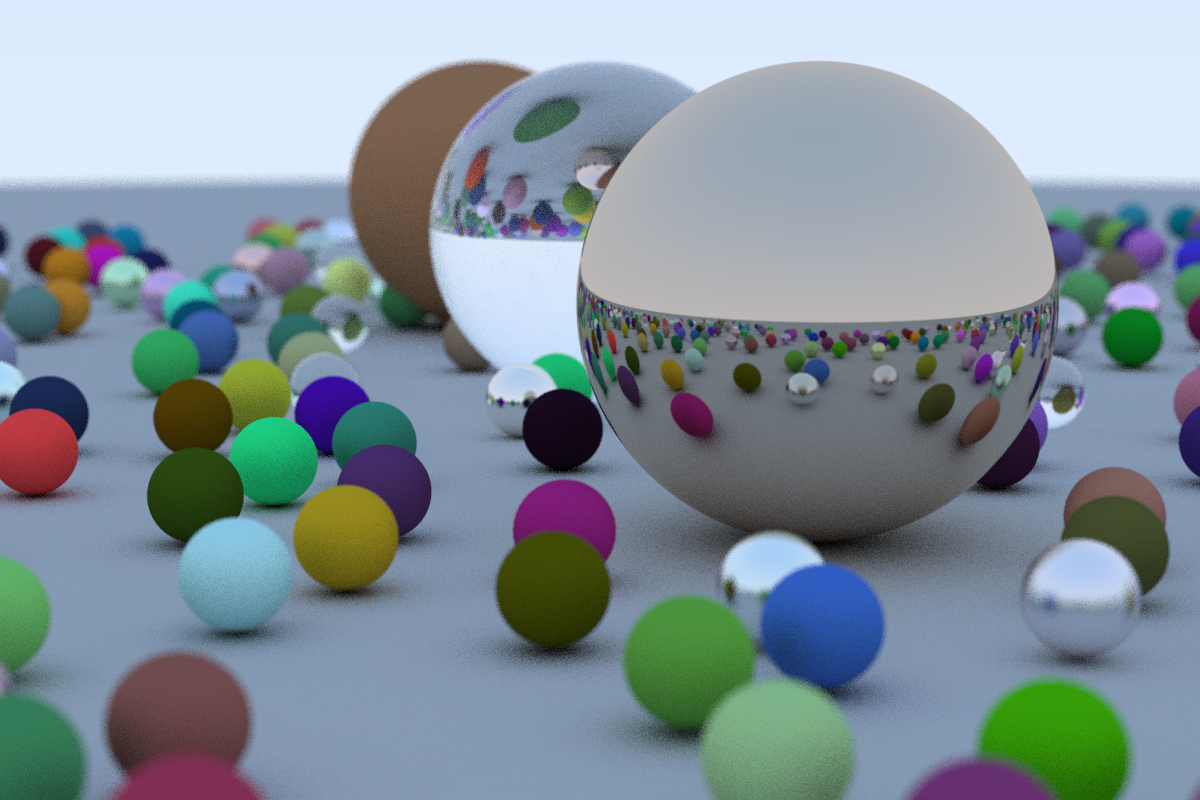
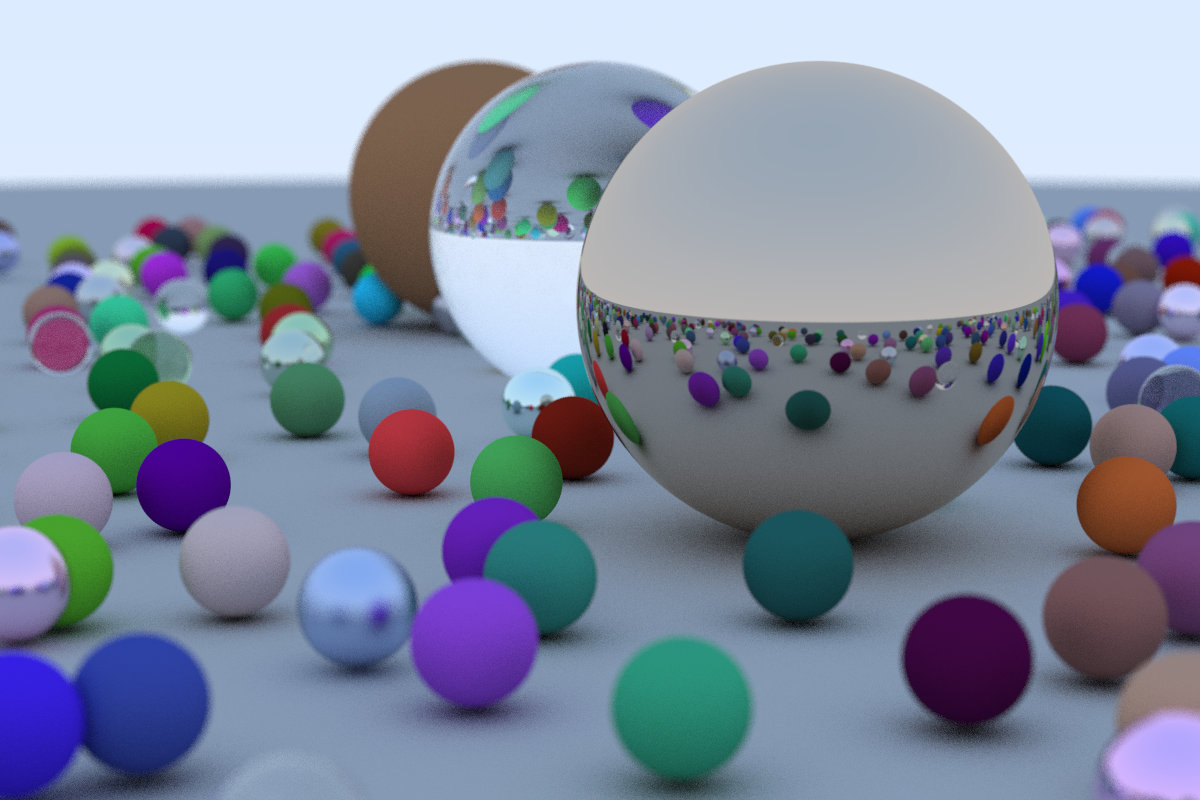
Make code concurrent

diff --git a/rendim/render.go b/rendim/render.go
@@ -8,64 +8,113 @@ import (
 	"math"
 	"math/rand"
 	"strings"
+	"sync"
+	"sync/atomic"
 	"time"
 )
 
 const (
-	width   = 1200
-	height  = 800
-	samples = 50
+	samples      = 100
+	bucketSize   = 32
+	workersCount = 4
 )
 
-var rnd = rand.New(rand.NewSource(time.Now().UTC().UnixNano()))
+var ops uint64
 
 func Render() image.Image {
-	//scene setup
-	world := randomScene()
+	width := 1200
+	height := 800
 
-	//camera setup
-	lookFrom := NewVec3d(13.0, 2.0, 3.0)
-	lookAt := NewVec3d(0.0, 0.0, 0.0)
-	vUp := NewVec3d(0.0, 1.0, 0.0)
-	vFov := 20.0 //vertical field of view in degrees
-	aspectRatio := float64(width) / float64(height)
-	distToFocus := 10.0
-	aperture := 0.1
-	cam := NewCamera(lookFrom, lookAt, vUp, vFov, aspectRatio, aperture, distToFocus)
+	scene := randomScene(width, height)
 
-	var (
-		py, px, s int
-	)
+	return renderBuckets(width, height, scene)
+}
+
+func renderBuckets(width, height int, scene Scene) image.Image {
+	img := image.NewRGBA(image.Rect(0, 0, width, height))
+
+	buckets := getBuckets(img.Bounds())
+	bucketChan := make(chan image.Rectangle, len(buckets))
 
 	done := make(chan bool)
-	go showProgress(&py, &px, &s, done)
+	go showProgress(width*height, done)
 
-	img := image.NewRGBA(image.Rect(0, 0, width, height))
-	for py = 0; py < height; py++ {
-		for px = 0; px < width; px++ {
-			var rayClr Color
-			for s = 0; s < samples; s++ {
-				u := (float64(px) + rnd.Float64()) / float64(width)
-				v := (float64(height-py) + rnd.Float64()) / float64(height)
-				r := cam.GetRay(u, v)
-				rayClr = rayClr.Add(rayColor(r, &world, 0))
-			}
-			rayClr = rayClr.DivideScalar(samples)
-			rayClrGamma := Color{
-				R: math.Sqrt(rayClr.R),
-				G: math.Sqrt(rayClr.G),
-				B: math.Sqrt(rayClr.B)}
+	var wg sync.WaitGroup
+	wg.Add(workersCount)
 
-			clr := rayClrGamma.ToRGBA()
-
-			img.Set(px, py, clr)
-		}
+	for w := 0; w < workersCount; w++ {
+		go renderBucket(bucketChan, &scene, img, &wg)
 	}
+
+	for _, b := range buckets {
+		bucketChan <- b
+	}
+
+	close(bucketChan)
+	wg.Wait()
 
 	done <- true
 	<-done
 
 	return img
+}
+
+func getBuckets(r image.Rectangle) []image.Rectangle {
+	w := r.Bounds().Dx()
+	h := r.Bounds().Dy()
+
+	bw := w/bucketSize + 1
+	bh := h/bucketSize + 1
+
+	buckets := make([]image.Rectangle, 0)
+
+	for y := 0; y < bh; y++ {
+		if y%2 == 0 {
+			for x := 0; x < bw; x++ {
+				b := image.Rectangle{
+					Min: image.Point{X: x * bucketSize, Y: y * bucketSize},
+					Max: image.Point{X: (x+1)*bucketSize - 1, Y: (y+1)*bucketSize - 1},
+				}
+
+				buckets = append(buckets, b)
+			}
+		} else {
+			for x := bw - 1; x >= 0; x-- {
+				b := image.Rectangle{
+					Min: image.Point{X: x * bucketSize, Y: y * bucketSize},
+					Max: image.Point{X: (x+1)*bucketSize - 1, Y: (y+1)*bucketSize - 1},
+				}
+
+				buckets = append(buckets, b)
+			}
+		}
+	}
+
+	for i := range buckets {
+		clip(&buckets[i], w-1, h-1)
+	}
+
+	return buckets
+}
+
+func clip(r *image.Rectangle, maxX, maxY int) {
+	r.Max.X = int(math.Min(float64(r.Max.X), float64(maxX)))
+	r.Max.Y = int(math.Min(float64(r.Max.Y), float64(maxY)))
+}
+
+func renderBucket(buckets <-chan image.Rectangle, scene *Scene, img *image.RGBA, wg *sync.WaitGroup) {
+	defer wg.Done()
+
+	width := img.Bounds().Max.X
+	height := img.Bounds().Max.Y
+
+	for b := range buckets {
+		for py := b.Min.Y; py <= b.Max.Y; py++ {
+			for px := b.Min.X; px <= b.Max.X; px++ {
+				img.Set(px, py, pixelColor(px, py, width, height, scene))
+			}
+		}
+	}
 }
 
 func rayColor(r Ray, world *HitableList, depth int) Color {
@@ -91,44 +140,33 @@ func rayColor(r Ray, world *HitableList, depth int) Color {
 	return clr
 }
 
-func randomScene() HitableList {
-	list := HitableList{}
-	list = append(list, NewSphere(NewVec3d(0.0, -1000.0, 0), 1000, Lambertian{albedo: Color{R: 0.5, G: 0.5, B: 0.5}}))
-	for a := -11; a < 11; a++ {
-		for b := -11; b < 11; b++ {
-			chooseMaterial := rnd.Float64()
-			center := NewVec3d(float64(a)+0.9*rnd.Float64(), 0.2, float64(b)+0.9*rnd.Float64())
-			if center.Subtract(NewVec3d(4.0, 0.2, 0.0)).Length() > 0.9 {
-				if chooseMaterial < 0.8 { //diffuse
-					list = append(list, NewSphere(center, 0.2,
-						Lambertian{albedo: Color{R: rnd.Float64() * rnd.Float64(), G: rnd.Float64() * rnd.Float64(), B: rnd.Float64() * rnd.Float64()}}))
-				} else if chooseMaterial < 0.95 { //metal
-					list = append(list, NewSphere(center, 0.2,
-						Metal{albedo: Color{R: 0.5 * (1.0 + rnd.Float64()), G: 0.5 * (1.0 + rnd.Float64()), B: 0.5 * (1.0 + rnd.Float64())}, fuzz: 0.5 * rnd.Float64()}))
-				} else { //glass
-					list = append(list, NewSphere(center, 0.2, Dielectric{refIdx: 1.5}))
-				}
-			}
-		}
+func pixelColor(px, py, width, height int, scene *Scene) color.RGBA {
+	var rayClr Color
+	for s := 0; s < samples; s++ {
+		u := (float64(px) + rand.Float64()) / float64(width)
+		v := (float64(height-py) + rand.Float64()) / float64(height)
+		r := scene.camera.GetRay(u, v)
+		rayClr = rayClr.Add(rayColor(r, &scene.world, 0))
 	}
+	rayClr = rayClr.DivideScalar(samples)
+	rayClrGamma := Color{
+		R: math.Sqrt(rayClr.R),
+		G: math.Sqrt(rayClr.G),
+		B: math.Sqrt(rayClr.B)}
 
-	list = append(list, NewSphere(NewVec3d(0.0, 1.0, 0.0), 1.0, Dielectric{refIdx: 1.5}))
-	list = append(list, NewSphere(NewVec3d(-4.0, 1.0, 0.0), 1.0, Lambertian{albedo: Color{R: 0.4, G: 0.2, B: 0.1}}))
-	list = append(list, NewSphere(NewVec3d(4.0, 1.0, 0.0), 1.0, Metal{albedo: Color{R: 0.7, G: 0.6, B: 0.5}, fuzz: 0.0}))
+	atomic.AddUint64(&ops, samples)
 
-	return list
+	return rayClrGamma.ToRGBA()
 }
 
-func showProgress(py, px, s *int, done chan bool) {
-	const tickIntervalMs = 200
+func showProgress(pixCount int, done chan bool) {
+	const tickIntervalMs = 1000
 	ticker := time.NewTicker(time.Millisecond * tickIntervalMs)
 	elapsed := 0
 	for {
 		select {
 		case <-ticker.C:
-			cy, cx, cs := (*py), (*px), (*s)
-			opNum := (cy * width * samples) + (cx * samples) + cs
-			progress := float64(opNum) / float64(width*height*samples)
+			progress := float64(atomic.LoadUint64(&ops)) / float64(pixCount*samples)
 			progressPercent := int(100.0 * progress)
 
 			var progressBar bytes.Buffer
@@ -146,4 +184,67 @@ func showProgress(py, px, s *int, done chan bool) {
 			return
 		}
 	}
+}
+
+func randomScene(width, height int) Scene {
+	rnd := rand.New(rand.NewSource(42))
+
+	world := HitableList{}
+	world = append(world, NewSphere(NewVec3d(0.0, -1000.0, 0), 1000, Lambertian{albedo: Color{R: 0.5, G: 0.5, B: 0.5}}))
+	for a := -11; a < 11; a++ {
+		for b := -11; b < 11; b++ {
+			chooseMaterial := rnd.Float64()
+			center := NewVec3d(float64(a)+0.9*rnd.Float64(), 0.2, float64(b)+0.9*rnd.Float64())
+			if center.Subtract(NewVec3d(4.0, 0.2, 0.0)).Length() > 0.9 {
+				if chooseMaterial < 0.8 { //diffuse
+					world = append(world, NewSphere(center, 0.2,
+						Lambertian{albedo: Color{R: rnd.Float64() * rnd.Float64(), G: rnd.Float64() * rnd.Float64(), B: rnd.Float64() * rnd.Float64()}}))
+				} else if chooseMaterial < 0.95 { //metal
+					world = append(world, NewSphere(center, 0.2,
+						Metal{albedo: Color{R: 0.5 * (1.0 + rnd.Float64()), G: 0.5 * (1.0 + rnd.Float64()), B: 0.5 * (1.0 + rnd.Float64())}, fuzz: 0.5 * rnd.Float64()}))
+				} else { //glass
+					world = append(world, NewSphere(center, 0.2, Dielectric{refIdx: 1.5}))
+				}
+			}
+		}
+	}
+
+	world = append(world, NewSphere(NewVec3d(0.0, 1.0, 0.0), 1.0, Dielectric{refIdx: 1.5}))
+	world = append(world, NewSphere(NewVec3d(-4.0, 1.0, 0.0), 1.0, Lambertian{albedo: Color{R: 0.4, G: 0.2, B: 0.1}}))
+	world = append(world, NewSphere(NewVec3d(4.0, 1.0, 0.0), 1.0, Metal{albedo: Color{R: 0.7, G: 0.6, B: 0.5}, fuzz: 0.0}))
+
+	lookFrom := NewVec3d(13.0, 2.0, 3.0)
+	lookAt := NewVec3d(0.0, 0.0, 0.0)
+
+	vUp := NewVec3d(0.0, 1.0, 0.0)
+	vFov := 20.0 //vertical field of view in degrees
+	aspectRatio := float64(width) / float64(height)
+
+	distToFocus := 10.0
+	aperture := 0.1
+	cam := NewCamera(lookFrom, lookAt, vUp, vFov, aspectRatio, aperture, distToFocus)
+
+	return Scene{camera: cam, world: world}
+}
+
+func testScene(width, height int) Scene {
+	world := HitableList{}
+	world = append(world, NewSphere(NewVec3d(0.0, 0.0, -1.0), 0.5, Lambertian{albedo: Color{R: 0.1, G: 0.2, B: 0.5}}))
+	world = append(world, NewSphere(NewVec3d(0.0, -100.5, -1.0), 100.0, Lambertian{albedo: Color{R: 0.8, G: 0.8, B: 0.0}}))
+	world = append(world, NewSphere(NewVec3d(1.0, 0.0, -1.0), 0.5, Metal{albedo: Color{R: 0.8, G: 0.6, B: 0.2}, fuzz: 0.0}))
+	world = append(world, NewSphere(NewVec3d(-1.0, 0.0, -1.0), 0.5, Dielectric{refIdx: 1.5}))
+	world = append(world, NewSphere(NewVec3d(-1.0, 0.0, -1.0), -0.45, Dielectric{refIdx: 1.5}))
+
+	lookFrom := NewVec3d(3.0, 3.0, 2.0)
+	lookAt := NewVec3d(0.0, 0.0, -1.0)
+
+	vUp := NewVec3d(0.0, 1.0, 0.0)
+	vFov := 20.0 //vertical field of view in degrees
+	aspectRatio := float64(width) / float64(height)
+
+	distToFocus := lookFrom.Subtract(lookAt).Length()
+	aperture := 0.5
+	cam := NewCamera(lookFrom, lookAt, vUp, vFov, aspectRatio, aperture, distToFocus)
+
+	return Scene{camera: cam, world: world}
 }

diff --git a/rendim/material.go b/rendim/material.go
@@ -1,6 +1,9 @@
 package rendim
 
-import "math"
+import (
+	"math"
+	"math/rand"
+)
 
 type Material interface {
 	Scatter(rayIn Ray, rec HitRecord, attenuation *Color) (bool, Ray)
@@ -66,7 +69,7 @@ func (d Dielectric) Scatter(rayIn Ray, rec HitRecord, attenuation *Color) (isSca
 		reflectProb = 1.0
 	}
 
-	if rnd.Float64() < reflectProb {
+	if rand.Float64() < reflectProb {
 		reflected := reflect(rayIn.Direction(), rec.Normal)
 		scattered = NewRay(rec.P, reflected)
 	} else {
@@ -77,9 +80,9 @@ func (d Dielectric) Scatter(rayIn Ray, rec HitRecord, attenuation *Color) (isSca
 }
 
 func randomInUnitSphere() Vec3d {
-	p := NewVec3d(rnd.Float64(), rnd.Float64(), rnd.Float64()).MultiplyScalar(2.0).Subtract(NewVec3d(1.0, 1.0, 1.0))
+	p := NewVec3d(rand.Float64(), rand.Float64(), rand.Float64()).MultiplyScalar(2.0).Subtract(NewVec3d(1.0, 1.0, 1.0))
 	for p.Dot(p) >= 1.0 {
-		p = NewVec3d(rnd.Float64(), rnd.Float64(), rnd.Float64()).MultiplyScalar(2.0).Subtract(NewVec3d(1.0, 1.0, 1.0))
+		p = NewVec3d(rand.Float64(), rand.Float64(), rand.Float64()).MultiplyScalar(2.0).Subtract(NewVec3d(1.0, 1.0, 1.0))
 	}
 	return p
 }

diff --git a/rendim/camera.go b/rendim/camera.go
@@ -2,6 +2,7 @@ package rendim
 
 import (
 	"math"
+	"math/rand"
 )
 
 type Camera struct {
@@ -38,9 +39,9 @@ func (c Camera) GetRay(s, t float64) Ray {
 }
 
 func randomInUnitDisk() Vec3d {
-	p := NewVec3d(rnd.Float64(), rnd.Float64(), 0.0).MultiplyScalar(2.0).Subtract(NewVec3d(1.0, 1.0, 0.0))
+	p := NewVec3d(rand.Float64(), rand.Float64(), 0.0).MultiplyScalar(2.0).Subtract(NewVec3d(1.0, 1.0, 0.0))
 	for p.Dot(p) >= 1.0 {
-		p = NewVec3d(rnd.Float64(), rnd.Float64(), 0.0).MultiplyScalar(2.0).Subtract(NewVec3d(1.0, 1.0, 0.0))
+		p = NewVec3d(rand.Float64(), rand.Float64(), 0.0).MultiplyScalar(2.0).Subtract(NewVec3d(1.0, 1.0, 0.0))
 	}
 	return p
 }

diff --git a/rendim/scene.go b/rendim/scene.go
@@ -1,0 +1,6 @@
+package rendim
+
+type Scene struct {
+	camera Camera
+	world  HitableList
+}

diff --git a/README.md b/README.md
@@ -5,4 +5,4 @@ Image from the cover of the book:
 
 ![alt text](https://github.com/MiroslavGatsanoga/RendIm/blob/master/out.png)
 
-Rendering the image took **48m 15s** on machine with Intel Core i5-4210H CPU 2.90 GHz
+Rendering the image with 100 samples per pixel took **49m 4s** on machine with Intel Core i5-4210H CPU 2.90 GHz
